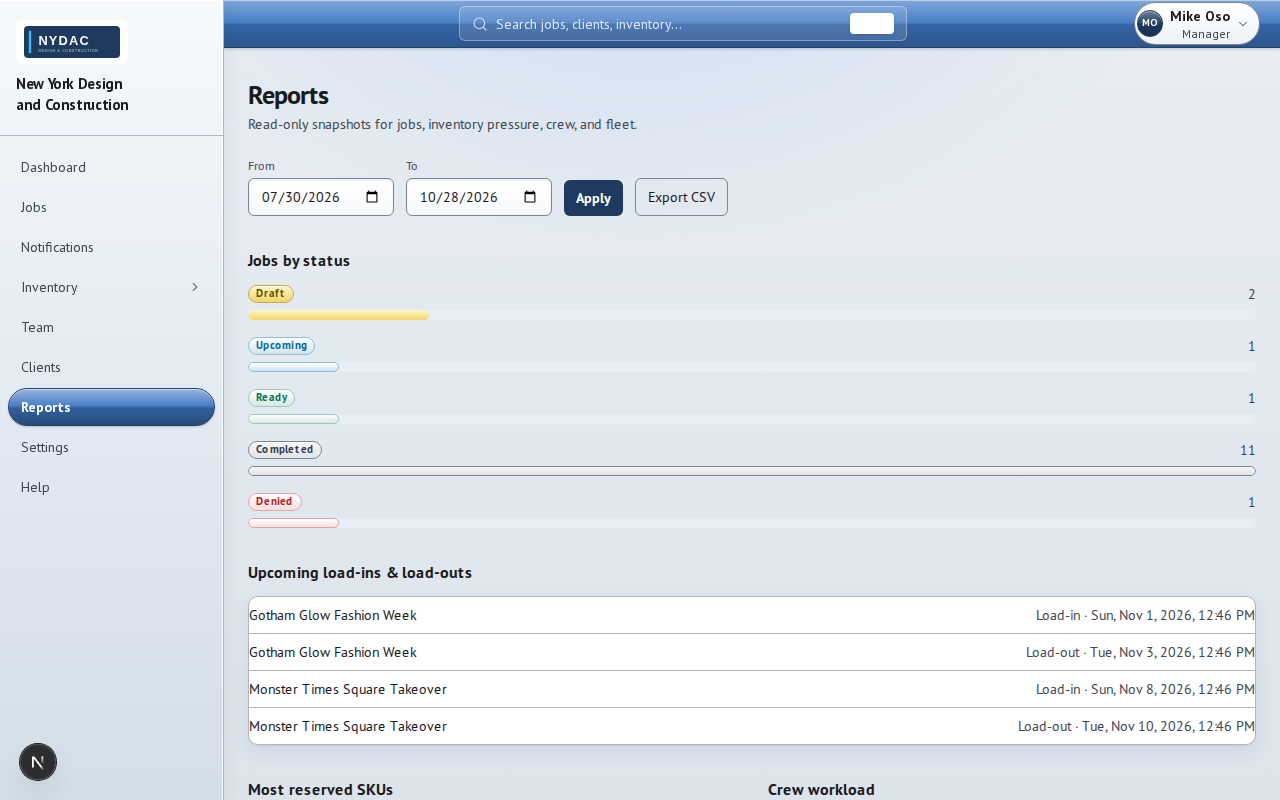
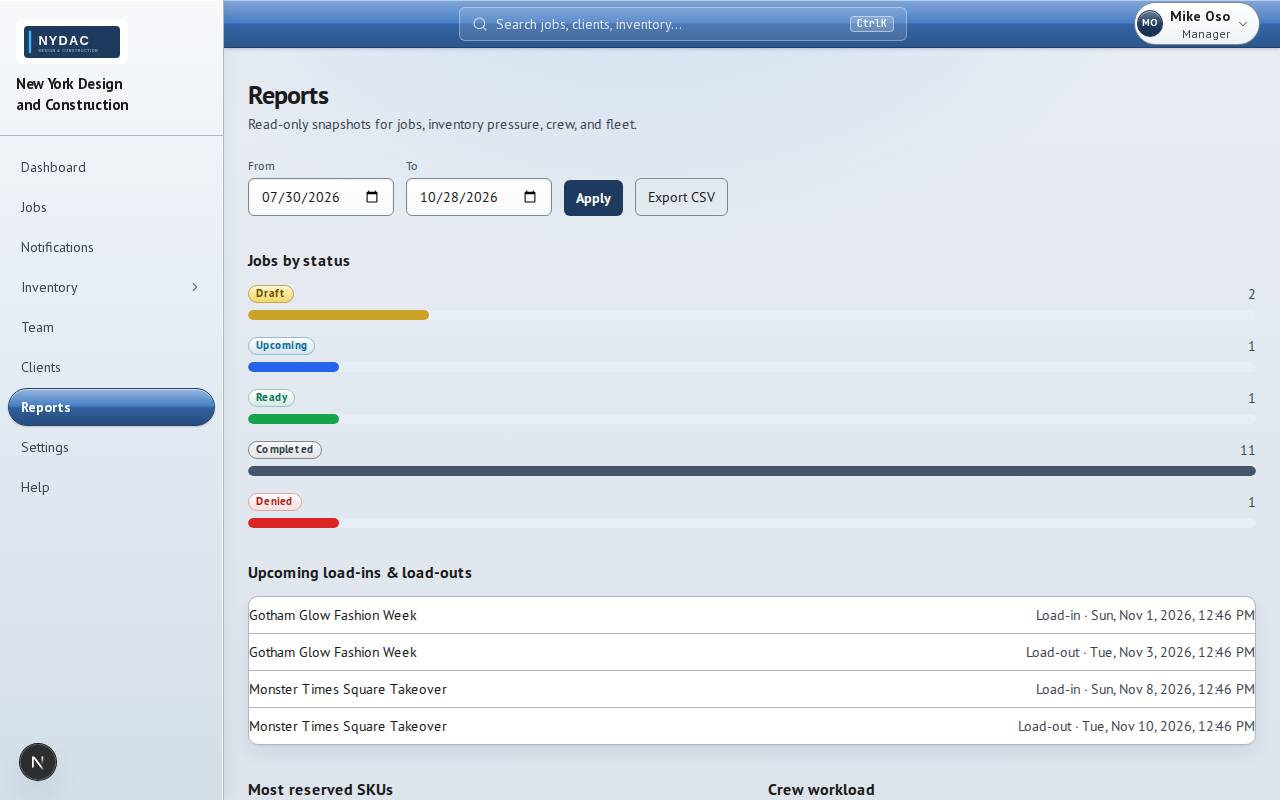
fix: topbar ⌘K contrast and solid report status bar fills

diff --git a/lib/jobs/status-display.ts b/lib/jobs/status-display.ts
@@ -30,20 +30,20 @@ export function sortJobStatusCounts<T extends { status: string }>(
   );
 }
 
-/** Tailwind / token classes for report bar fills (matches status badge hues). */
+/** Solid fills for report bars (readable at a glance on a neutral track). */
 export function jobStatusBarClass(status: string): string {
   const key = status.toLowerCase();
   switch (key) {
     case "draft":
-      return "bg-gradient-to-b from-[#fff6c8] to-[#f0d56a]";
+      return "bg-[#c9a227]";
     case "upcoming":
-      return "bg-gradient-to-b from-white to-[color-mix(in_srgb,var(--info)_18%,white)] border border-[color-mix(in_srgb,var(--info)_45%,white)]";
+      return "bg-[#2563eb]";
     case "ready":
-      return "bg-gradient-to-b from-white to-[color-mix(in_srgb,var(--success)_16%,white)] border border-[color-mix(in_srgb,var(--success)_40%,white)]";
+      return "bg-[#16a34a]";
     case "completed":
-      return "bg-gradient-to-b from-[#f7f7f7] to-[#e4e4e4] border border-[var(--lp-line-strong)]";
+      return "bg-[#475569]";
     case "denied":
-      return "bg-gradient-to-b from-white to-[color-mix(in_srgb,var(--danger)_14%,white)] border border-[color-mix(in_srgb,var(--danger)_40%,white)]";
+      return "bg-[#dc2626]";
     default:
       return "bg-[var(--primary)]";
   }

diff --git a/components/search/command-palette.tsx b/components/search/command-palette.tsx
@@ -48,7 +48,20 @@ function HighlightedText({ text, query }: { text: string; query: string }) {
   );
 }
 
-function Kbd({ children }: { children: React.ReactNode }) {
+function Kbd({
+  children,
+  variant = "panel",
+}: {
+  children: React.ReactNode;
+  variant?: "chrome" | "panel";
+}) {
+  if (variant === "chrome") {
+    return (
+      <kbd className="shrink-0 rounded border border-[color-mix(in_srgb,var(--primary-foreground)_45%,transparent)] bg-[color-mix(in_srgb,var(--primary-foreground)_18%,transparent)] px-1.5 py-0.5 text-[10px] font-semibold leading-none text-[var(--primary-foreground)] shadow-none">
+        {children}
+      </kbd>
+    );
+  }
   return (
     <kbd className="rounded border border-[var(--border-subtle)] bg-[var(--surface)] px-1.5 py-0.5 text-[10px] font-medium text-[var(--muted)] shadow-sm">
       {children}
@@ -213,7 +226,7 @@ export function CommandPaletteSearch({
         <span className="min-w-0 flex-1 truncate opacity-90">
           {triggerPlaceholder}
         </span>
-        <Kbd>{modKey}K</Kbd>
+        <Kbd variant="chrome">{modKey}K</Kbd>
       </button>
       {compactTrigger ? null : (
         <button
